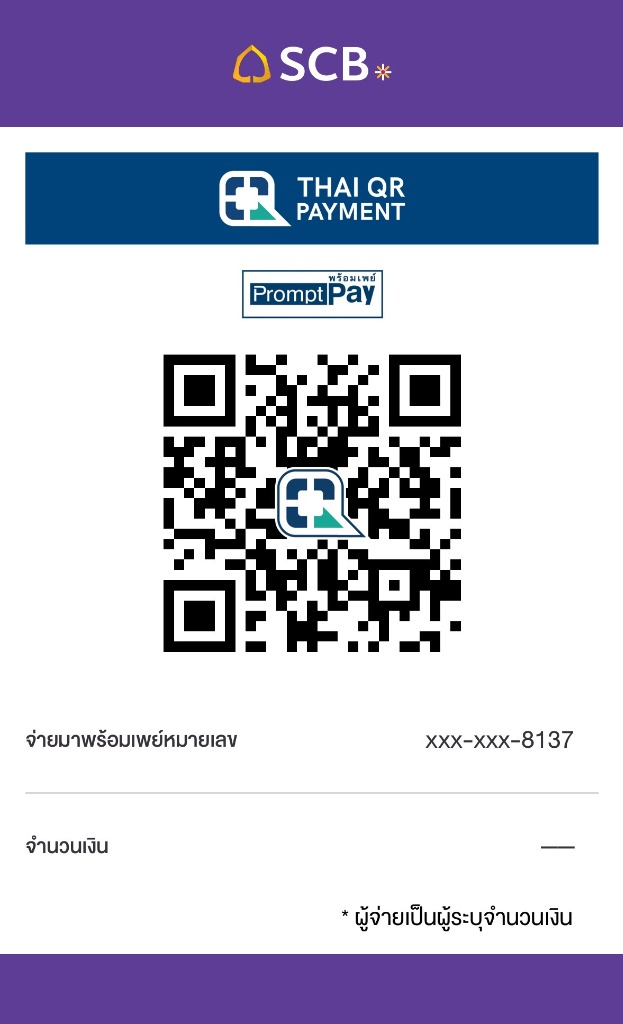
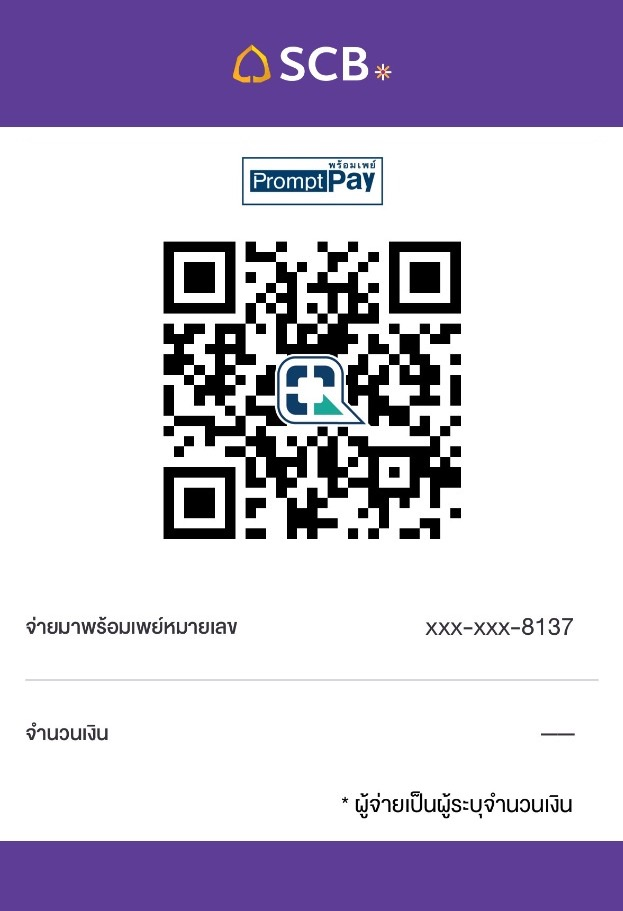
fix: make @ in emails sharp and distinct; remove blue bar from SCB QR payment leaving only purple

diff --git a/frontend/src/components/ContactSection.tsx b/frontend/src/components/ContactSection.tsx
@@ -284,15 +284,15 @@ export const ContactSection: React.FC = () => {
                   <div className="space-y-1.5 pt-0.5">
                     <a
                       href="mailto:info@rapeephat-catering.com"
-                      className="block text-base sm:text-lg font-black text-red-700 hover:text-red-900 transition-colors font-mono tracking-tight bg-red-50/70 hover:bg-red-100/70 px-3 py-1.5 rounded-xl border border-red-200/80"
+                      className="block text-base sm:text-lg font-bold text-red-700 hover:text-red-900 transition-colors tracking-normal bg-red-50/70 hover:bg-red-100/70 px-3 py-1.5 rounded-xl border border-red-200/80"
                     >
-                      info@rapeephat-catering.com
+                      info<span className="font-bold text-red-800 px-0.5">@</span>rapeephat-catering.com
                     </a>
                     <a
                       href="mailto:baicha@rapeephat-catering.com"
-                      className="block text-base sm:text-lg font-black text-red-700 hover:text-red-900 transition-colors font-mono tracking-tight bg-red-50/70 hover:bg-red-100/70 px-3 py-1.5 rounded-xl border border-red-200/80"
+                      className="block text-base sm:text-lg font-bold text-red-700 hover:text-red-900 transition-colors tracking-normal bg-red-50/70 hover:bg-red-100/70 px-3 py-1.5 rounded-xl border border-red-200/80"
                     >
-                      baicha@rapeephat-catering.com
+                      baicha<span className="font-bold text-red-800 px-0.5">@</span>rapeephat-catering.com
                     </a>
                   </div>
 

diff --git a/frontend/src/components/CateringReceiptModal.tsx b/frontend/src/components/CateringReceiptModal.tsx
@@ -240,7 +240,14 @@ export const CateringReceiptModal: React.FC<CateringReceiptModalProps> = ({
                       <span><strong className="text-slate-950 font-bold">LINE:</strong> pang_baichaa</span>
                     </div>
                     <div>
-                      <strong className="text-slate-950 font-bold">อีเมล:</strong> <strong className="font-mono text-slate-900">info@rapeephat-catering.com, baicha@rapeephat-catering.com</strong>
+                      <strong className="text-slate-950 font-bold">อีเมล:</strong>{' '}
+                      <span className="font-sans font-semibold text-slate-900 tracking-normal">
+                        info<span className="font-sans text-[13px] font-bold text-emerald-800 px-0.5">@</span>rapeephat-catering.com
+                      </span>
+                      <span className="text-slate-400 mx-2 font-light">|</span>
+                      <span className="font-sans font-semibold text-slate-900 tracking-normal">
+                        baicha<span className="font-sans text-[13px] font-bold text-emerald-800 px-0.5">@</span>rapeephat-catering.com
+                      </span>
                     </div>
                   </div>
                 </div>

diff --git a/frontend/src/components/QuotationBuilder/QuotationModal.tsx b/frontend/src/components/QuotationBuilder/QuotationModal.tsx
@@ -378,7 +378,14 @@ export const QuotationModal: React.FC<QuotationModalProps> = ({ quotation, onClo
                       <span><strong className="text-slate-950 font-bold">LINE:</strong> pang_baichaa</span>
                     </div>
                     <div>
-                      <strong className="text-slate-950 font-bold">อีเมล:</strong> <strong className="font-mono text-slate-900">info@rapeephat-catering.com, baicha@rapeephat-catering.com</strong>
+                      <strong className="text-slate-950 font-bold">อีเมล:</strong>{' '}
+                      <span className="font-sans font-semibold text-slate-900 tracking-normal">
+                        info<span className="font-sans text-[13px] font-bold text-red-700 px-0.5">@</span>rapeephat-catering.com
+                      </span>
+                      <span className="text-slate-400 mx-2 font-light">|</span>
+                      <span className="font-sans font-semibold text-slate-900 tracking-normal">
+                        baicha<span className="font-sans text-[13px] font-bold text-red-700 px-0.5">@</span>rapeephat-catering.com
+                      </span>
                     </div>
                   </div>
                 </div>

diff --git a/frontend/src/components/CateringContractModal.tsx b/frontend/src/components/CateringContractModal.tsx
@@ -162,7 +162,14 @@ export const CateringContractModal: React.FC<CateringContractModalProps> = ({
                       <span><strong className="text-slate-950 font-bold">LINE:</strong> pang_baichaa</span>
                     </div>
                     <div>
-                      <strong className="text-slate-950 font-bold">อีเมล:</strong> <strong className="font-mono text-slate-900">info@rapeephat-catering.com, baicha@rapeephat-catering.com</strong>
+                      <strong className="text-slate-950 font-bold">อีเมล:</strong>{' '}
+                      <span className="font-sans font-semibold text-slate-900 tracking-normal">
+                        info<span className="font-sans text-[13px] font-bold text-red-700 px-0.5">@</span>rapeephat-catering.com
+                      </span>
+                      <span className="text-slate-400 mx-2 font-light">|</span>
+                      <span className="font-sans font-semibold text-slate-900 tracking-normal">
+                        baicha<span className="font-sans text-[13px] font-bold text-red-700 px-0.5">@</span>rapeephat-catering.com
+                      </span>
                     </div>
                   </div>
                 </div>

diff --git a/frontend/src/components/Footer.tsx b/frontend/src/components/Footer.tsx
@@ -59,9 +59,9 @@ export const Footer: React.FC<FooterProps> = ({ onOpenAdmin }) => {
             </div>
             <div className="flex items-center gap-2">
               <Mail className="w-4 h-4 text-red-600 shrink-0" />
-              <div className="flex flex-col text-xs font-mono font-bold">
-                <a href="mailto:info@rapeephat-catering.com" className="text-slate-800 hover:text-red-700">info@rapeephat-catering.com</a>
-                <a href="mailto:baicha@rapeephat-catering.com" className="text-slate-800 hover:text-red-700">baicha@rapeephat-catering.com</a>
+              <div className="flex flex-col text-xs font-semibold">
+                <a href="mailto:info@rapeephat-catering.com" className="text-slate-800 hover:text-red-700">info<span className="text-red-700 font-bold px-0.5">@</span>rapeephat-catering.com</a>
+                <a href="mailto:baicha@rapeephat-catering.com" className="text-slate-800 hover:text-red-700">baicha<span className="text-red-700 font-bold px-0.5">@</span>rapeephat-catering.com</a>
               </div>
             </div>
             <div className="space-y-2 pt-2 text-xs text-slate-700 font-medium">
